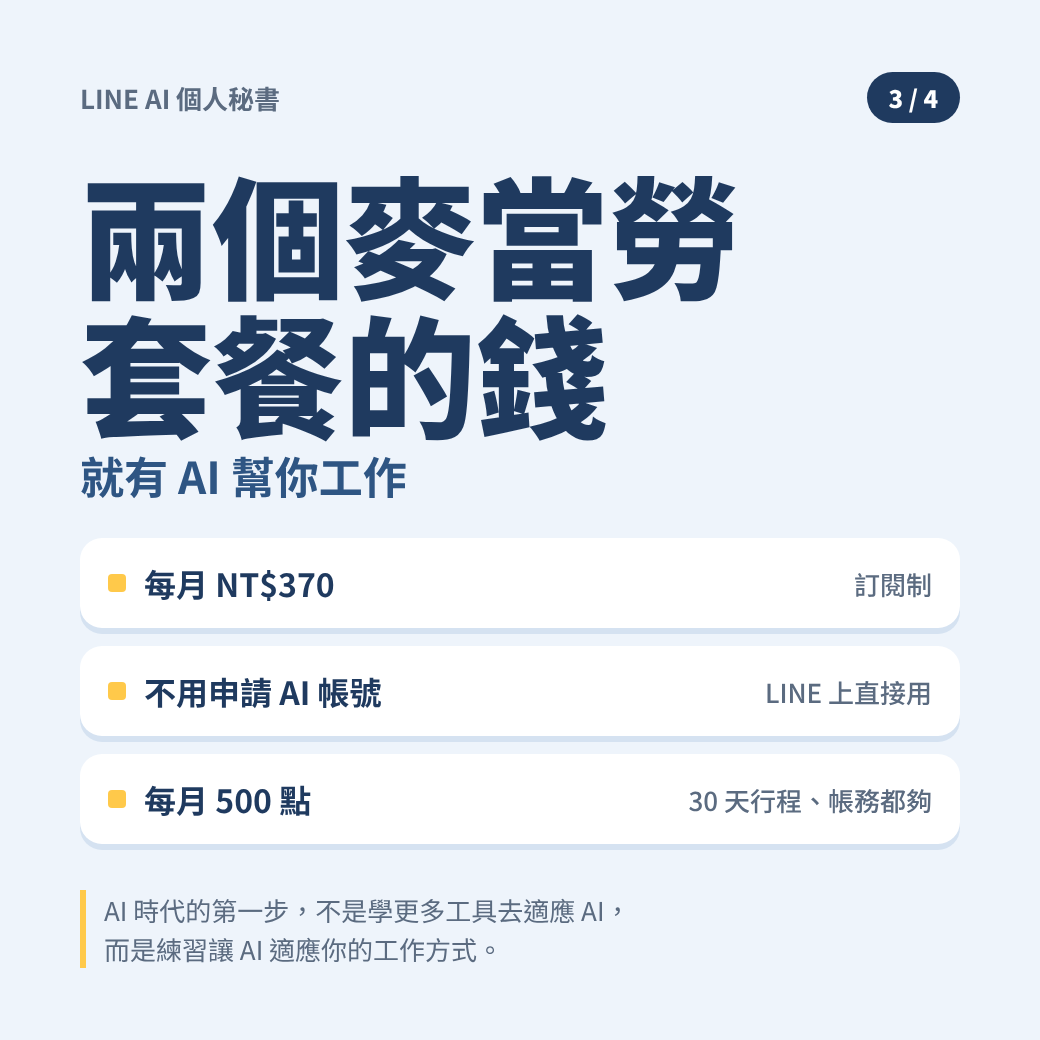
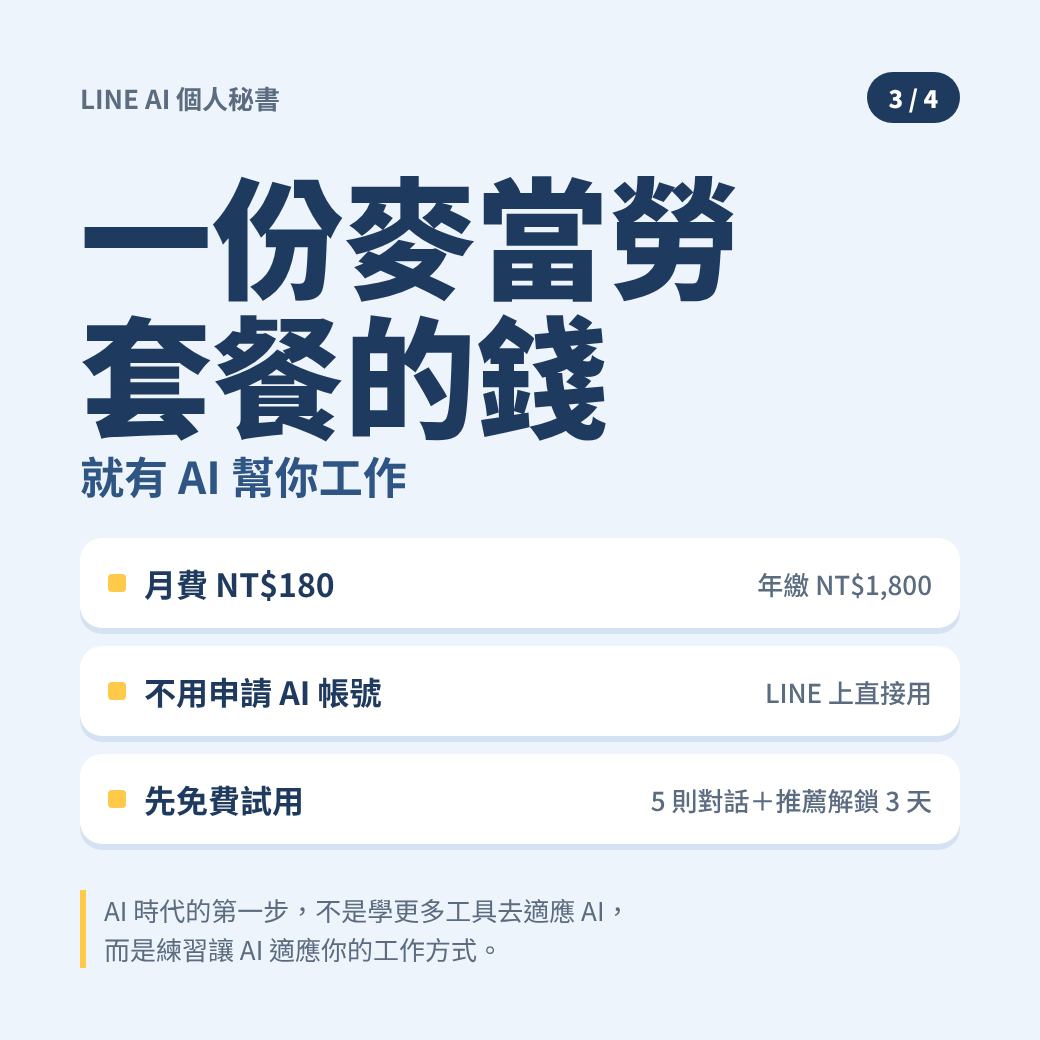
AI 秘書收費改新制：場地費 300、月費 180／年費 1,800、試用與推薦 (#122)
* 新增 AI 個人秘書工作坊 IG DM（11/22 課程）

Claude-Session: https://claude.ai/code/session_01SgizkCoUwjKyBL5st62JVY

* DM 課程費用改為 NT$3,680

Claude-Session: https://claude.ai/code/session_01SgizkCoUwjKyBL5st62JVY

* DM 改為 11/29 13:30-17:00、地點澤米芋804、移除早鳥

Claude-Session: https://claude.ai/code/session_01SgizkCoUwjKyBL5st62JVY

* DM 補上限額 7 名、講師柏廷老師，移除 QR code

Claude-Session: https://claude.ai/code/session_01SgizkCoUwjKyBL5st62JVY

* 新增 AI 個人秘書工作坊選位頁（偽 3D 房間＋8 種 Q 版動物，Supabase 先選先贏）

Claude-Session: https://claude.ai/code/session_01SgizkCoUwjKyBL5st62JVY

* 新增通用上線 workflow deploy-sites（暫時含本分支觸發以測試 DEPLOY_TOKEN）

Claude-Session: https://claude.ai/code/session_01SgizkCoUwjKyBL5st62JVY

* deploy-sites 改回只在合併到 main 時觸發

Claude-Session: https://claude.ai/code/session_01SgizkCoUwjKyBL5st62JVY

* 選位頁加入 Meta 像素（PageView＋選位成功 Lead），頁尾補隱私說明

Claude-Session: https://claude.ai/code/session_01SgizkCoUwjKyBL5st62JVY

* 網頁與 DM 標示學費含 NT$1,680 會員點數

Claude-Session: https://claude.ai/code/session_01SgizkCoUwjKyBL5st62JVY

* 新增 AI 秘書工作坊 Meta 廣告影片交接文件（腳本、拍攝清單、剪輯規格）

Claude-Session: https://claude.ai/code/session_01SgizkCoUwjKyBL5st62JVY

* 改為訂閱制：每月 NT$370、學費含第一年訂閱，網頁新增方案區與麥當勞主題，DM 與廣告腳本同步

Claude-Session: https://claude.ai/code/session_01SgizkCoUwjKyBL5st62JVY

* 選位頁「秘書幫你做 3 件事」改為「AI 秘書能幫你做的事」8 項功能

Claude-Session: https://claude.ai/code/session_01SgizkCoUwjKyBL5st62JVY

* 客群改為行政、秘書與忙碌上班族：報名頁、DM、廣告交接文件改寫（損失厭惡文案、工作群組示範）

Claude-Session: https://claude.ai/code/session_01SgizkCoUwjKyBL5st62JVY
[…]

diff --git a/aisec-seat/index.html b/aisec-seat/index.html
@@ -145,10 +145,10 @@ fbq('track','PageView');
   <dl class="aisec-ticket">
     <div><dt>日期</dt><dd>11/29（日）13:30–17:00</dd></div>
     <div><dt>地點</dt><dd>澤米芋 804（小樹屋）</dd></div>
-    <div><dt>費用</dt><dd class="aisec-price aisec-num">NT$3,680</dd></div>
+    <div><dt>場地費</dt><dd class="aisec-price aisec-num">NT$300</dd></div>
     <div><dt>剩餘名額</dt><dd class="aisec-leftbox aisec-num"><span class="aisec-left">–</span> / 7</dd></div>
   </dl>
-  <p class="aisec-points"><b>學費已含第一年 AI 秘書訂閱</b>：不用申請 AI 帳號，下課後在 LINE 上直接用。</p>
+  <p class="aisec-points"><b>工作坊只收場地費 NT$300</b>，AI 秘書訂閱另計：月費 NT$180／年費 NT$1,800。新加入送 5 則免費對話，推薦 1 位朋友再解鎖 3 天試用。</p>
   <p class="aisec-points">提醒：公司規定不能外傳的機密內容，請不要轉傳給秘書。</p>
   <a class="aisec-cta" href="#aisec_pick">選我的座位 →</a>
 </header>
@@ -168,13 +168,13 @@ fbq('track','PageView');
 </section>
 
 <section class="aisec-wrap aisec-sec">
-  <h2>用兩個麥當勞套餐的錢，讓 AI 幫你工作</h2>
+  <h2>用一份麥當勞套餐的錢，讓 AI 幫你工作</h2>
   <p class="aisec-quote">AI 時代的第一步，不是學更多工具去適應 AI，而是練習讓 AI 適應你的工作方式。</p>
   <ul class="aisec-plan">
-    <li><b>每月 NT$370</b><span>不用申請 AI 帳號，在 LINE 上直接用</span></li>
-    <li><b>每月 500 點</b><span>足夠 30 天每天整理行程與帳務</span></li>
-    <li><b>用完不中斷</b><span>可加購點數、升級方案，或等下個月重置</span></li>
-    <li><b>工作坊學員</b><span>學費 NT$3,680 已含第一年訂閱（12 個月）</span></li>
+    <li><b>月費 NT$180</b><span>不用申請 AI 帳號，在 LINE 上直接用</span></li>
+    <li><b>年費 NT$1,800</b><span>以 10 個月計算，等於多送 2 個月</span></li>
+    <li><b>先免費試用</b><span>新加入送 5 則免費對話，推薦 1 位朋友再解鎖 3 天試用</span></li>
+    <li><b>推薦有折扣</b><span>累計推薦 3 人打 9 折、5 人打 8 折</span></li>
   </ul>
 </section>
 

diff --git a/dm-ai-secretary/aisec_line.html b/dm-ai-secretary/aisec_line.html
@@ -103,11 +103,11 @@ body{background:#888;font-family:"Noto Sans TC","WenQuanYi Zen Hei",sans-serif;c
 
 <section class="aisec-card" id="aisec_c3">
   <div class="aisec-top"><span>LINE AI 個人秘書</span><b>3 / 4</b></div>
-  <div class="aisec-price">兩個麥當勞<br>套餐的錢<small>就有 AI 幫你工作</small></div>
+  <div class="aisec-price">一份麥當勞<br>套餐的錢<small>就有 AI 幫你工作</small></div>
   <ul class="aisec-list">
-    <li>每月 NT$370<span>訂閱制</span></li>
+    <li>月費 NT$180<span>年繳 NT$1,800</span></li>
     <li>不用申請 AI 帳號<span>LINE 上直接用</span></li>
-    <li>每月 500 點<span>30 天行程、帳務都夠</span></li>
+    <li>先免費試用<span>5 則對話＋推薦解鎖 3 天</span></li>
   </ul>
   <p class="aisec-quote">AI 時代的第一步，不是學更多工具去適應 AI，<br>而是練習讓 AI 適應你的工作方式。</p>
 </section>
@@ -119,7 +119,7 @@ body{background:#888;font-family:"Noto Sans TC","WenQuanYi Zen Hei",sans-serif;c
   <dl class="aisec-info">
     <dt>日期</dt><dd>11/29（日）13:30–17:00</dd>
     <dt>地點</dt><dd>澤米芋 804<small>捷運中山站步行 4 分鐘</small></dd>
-    <dt>學費</dt><dd>NT$3,680<small>已含第一年 AI 秘書訂閱</small></dd>
+    <dt>場地費</dt><dd>NT$300<small>AI 秘書訂閱另計，月費 NT$180</small></dd>
   </dl>
   <div class="aisec-cta">點下方按鈕 <span>選你的座位</span></div>
 </section>

diff --git a/dm-ai-secretary/aisec_dm.html b/dm-ai-secretary/aisec_dm.html
@@ -94,7 +94,7 @@ body{background:#222;font-family:"Noto Sans TC","WenQuanYi Zen Hei",sans-serif}
       <ul class="aisec-promise">
         <li>包做完：當天帶著秘書回家</li>
         <li>不用寫程式，帶筆電就能上</li>
-        <li>學費含第一年 AI 秘書訂閱</li>
+        <li>先免費試用 5 則對話</li>
         <li>小班制，限額 7 名</li>
         <li>講師：柏廷老師</li>
       </ul>
@@ -106,7 +106,7 @@ body{background:#222;font-family:"Noto Sans TC","WenQuanYi Zen Hei",sans-serif}
       <div class="date">2026/11/29（日）13:30–17:00</div>
       <div class="meta">地點：澤米芋 804（小樹屋）</div>
     </div>
-    <div class="aisec-price"><small>課程費用</small><strong>NT$3,680</strong></div>
+    <div class="aisec-price"><small>場地費</small><strong>NT$300</strong></div>
   </div>
 </div>
 </body>

diff --git a/docs/aisec-ads/README.md b/docs/aisec-ads/README.md
@@ -12,9 +12,9 @@
 | 課程 | 打造你的 LINE AI 個人秘書（實體小班工作坊） |
 | 日期 | 2026/11/29（日）13:30–17:00 |
 | 地點 | 澤米芋 804（小樹屋），捷運中山站步行 4 分鐘 |
-| 費用 | NT$3,680，**已含第一年 AI 秘書訂閱**（12 個月；之後每月 NT$370） |
-| 訂閱 | 每月 NT$370（約兩個麥當勞套餐）；不用申請 AI 帳號，LINE 上直接用；每月 500 點，足夠 30 天每天整理行程與帳務；用完可加購、升級或等下月重置 |
-| 廣告主題 | 「用買兩個麥當勞套餐的錢，就可以讓 AI 協助你工作」 |
+| 費用 | 工作坊只收**場地費 NT$300**；AI 秘書訂閱另計 |
+| 訂閱 | 月費 NT$180（約一份麥當勞套餐）、年費 NT$1,800（以 10 個月計）；不用申請 AI 帳號，所有人共用一個 LINE 官方帳號；每月 360 點（前台不顯示金額）；新加入送 5 則免費對話，推薦 1 人解鎖 3 天試用；累計推薦 3 人 9 折、5 人 8 折（不疊加，下限 8 折）；想用自己的官方帳號服務顧客 → 升級 NT$1,680 建置方案 |
+| 廣告主題 | 「用一份麥當勞套餐的錢，就可以讓 AI 協助你工作」 |
 | 理念句 | 「AI 時代的第一步，不是學更多工具去適應 AI，而是練習讓 AI 適應你的工作方式」 |
 | 名額 | 7 位 |
 | 講師 | 柏廷老師（本人出鏡） |
@@ -97,7 +97,7 @@
 | 12–15 | s04 秘書回覆 | 「它自己挑出重點——」 | ①整理 ●●○ | — |
 | 15–17 | s05 Google 日曆 | 「排進行事曆。」 | ②行事曆 ●●○ | `*Google 日曆＋手機同步` |
 | 17–20 | s06 鎖定畫面提醒 | 「時間到，連要帶什麼都提醒你。」 | ③提醒 ●●● | — |
-| 20–23 | s07 正面口播 | 「一個月兩個麥當勞套餐的錢，就有 AI 幫你記。11/29 下午，我帶你做一個一樣的。」 | **兩個麥當勞套餐的錢** | `*不用申請 AI 帳號` |
+| 20–23 | s07 正面口播 | 「一個月一份麥當勞套餐的錢，就有 AI 幫你記。11/29 下午，我帶你做一個一樣的。」 | **一份麥當勞套餐的錢** | `*不用申請 AI 帳號` |
 | 23–25 | s08 點位子、動物跳出 | （無） | **限 7 位｜點下方選座位** | — |
 | 25 | 接 s01 第一幀 | — | — | （循環） |
 
@@ -107,7 +107,7 @@
 |---|---|---|---|
 | 0–3 | s09 晚上手機亮起 | 「下班了，腦袋還在想明天要做什麼？」 | **下班了 腦袋還在跑** |
 | 3–8 | s06 提醒放大 | 「把『要記得』交給 AI 秘書，時間到它會提醒你。」 | `*你負責做 它負責記` |
-| 8–12 | s07 片段＋s08 | 「11/29，帶走你的秘書。」 | **限 7 位｜含第一年訂閱** |
+| 8–12 | s07 片段＋s08 | 「11/29，帶走你的秘書。」 | **限 7 位｜場地費 NT$300** |
 
 最後一幀接回 s09 第一幀。
 
@@ -129,9 +129,9 @@ s10 全段口播，jump cut 剪掉所有停頓。口播稿：
 （4–7）所以我的 AI 秘書課，一場只收 7 個人。
 （7–12）因為我要保證每個人當天都做完、帶回家就能用，人一多我就顧不到。
 （12–19）你會帶走一個 LINE 秘書：群組訊息轉傳給它，自動排行事曆、時間到提醒你。
-（19–25）學費已含第一年訂閱，不用申請 AI 帳號，下課就能用。11/29 下午，中山站，點下方選位。
+（19–25）工作坊只收場地費 300 元，不用申請 AI 帳號，下課就能用。11/29 下午，中山站，點下方選位。
 ```
-註解層：`*讓 AI 適應你`、`*一場只收 7 人`、`*當天做完帶走`、`*含第一年訂閱`。
+註解層：`*讓 AI 適應你`、`*一場只收 7 人`、`*當天做完帶走`、`*場地費 300 元`。
 
 ---
 
@@ -146,9 +146,10 @@ s10 全段口播，jump cut 剪掉所有停頓。口播稿：
 
 把訊息轉傳給 LINE AI 秘書，它會自動抓出時間和待辦，排進行事曆，時間到提醒你。
 
-🍔 每月只要兩個麥當勞套餐的錢
+🍔 每月只要一份麥當勞套餐的錢（NT$180）
 📅 11/29（日）13:30–17:00｜台北中山站實體小班
-💡 學費含第一年訂閱，不用申請 AI 帳號，下課就能用
+💡 工作坊只收場地費 NT$300，不用申請 AI 帳號，下課就能用
+🎁 新加入先送 5 則免費對話
 👥 只收 7 位
 ```
 - 標題：`別再因為漏掉一件事，被問「不是交代過了嗎」`
@@ -162,9 +163,9 @@ s10 全段口播，jump cut 剪掉所有停頓。口播稿：
 
 讓 LINE AI 秘書替你記：轉傳訊息就整理好待辦，每天早上告訴你今天要做什麼，時間到再提醒。
 
-🍔 每月兩個麥當勞套餐的錢，換回你的下班時間
+🍔 每月一份麥當勞套餐的錢，換回你的下班時間
 📅 11/29（日）台北中山站，3.5 小時做完帶回家
-💡 學費含第一年訂閱，下課就能用
+🎁 先免費試用 5 則對話，推薦 1 位朋友再解鎖 3 天
 ```
 - 標題：`把「要記得」交給 AI，下班就真的下班`
 - 說明：`不用申請 AI 帳號，LINE 上直接用`
@@ -181,7 +182,7 @@ s10 全段口播，jump cut 剪掉所有停頓。口播稿：
 👉 點下方，選你的位子和代表動物
 ```
 - 標題：`剩 X 位｜11/29 帶走你的 AI 秘書`
-- 說明：`學費 NT$3,680 已含第一年訂閱`
+- 說明：`工作坊場地費 NT$300｜訂閱月費 NT$180`
 
 **按鈕**：一律 `瞭解詳情` → 報名頁。版本 A、B 同時投 3 天，點閱率高的那版拿較多預算。
 
